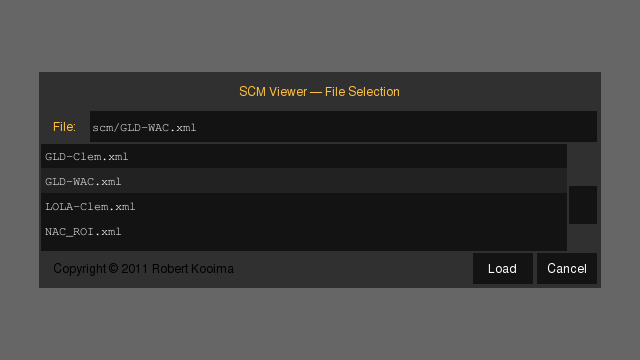
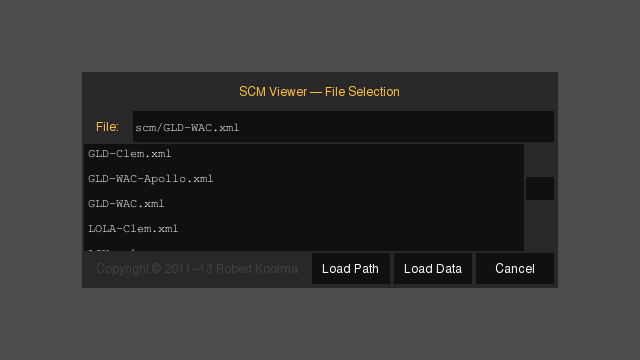
Added cursor visibility option. Fixed orbiter report not including joystick status. Updated documentation.
git-svn-id: https://s.snth.net/svn/rlk/thumb@3784 dcf3a027-e0e4-0310-89c9-ab9954db6d00

diff --git a/doc/README.html b/doc/README.html
@@ -53,7 +53,6 @@
         <ul>
           <li><a href="#viewing">Viewing Controls</a></li>
           <li><a href="#metadata">Metadata Controls</a></li>
-          <li><a href="#editing">Camera Path Editing</a></li>
           <li><a href="#recording">Camera Path Recording</a></li>
         </ul>
         <li><a href="#appconf">Application Configuration</a></li>
@@ -92,7 +91,7 @@
 
     <p>Note, this is <em>not</em> a list of available data files. A planetary visualization is usually a composition of several distinct data sets in <a href="#scm">SCM TIFF</a> format, and the <code>Orbiter</code> file selection dialog lists the XML files that define these visualizations. The XML files are found in the <tt>data/scm</tt> directory and are <a href="#definition">described below</a>.</p>
 
-    <p>Loading a visualization closes the selection dialog and displays the planet. Here, we've selected <tt>GLD-WAC.xml</tt> and zoomed in a bit, as described next.</p>
+    <p>Loading a visualization closes the selection dialog and displays the planet. Here, we've selected <tt>GLD-WAC.xml</tt>, clicked &ldquo;Load Data&rdquo; and zoomed in a bit, as described next.</p>
 
     <img src="img/view.png">
 
@@ -130,7 +129,7 @@
 
     <p>Not all visualizations support dynamic lighting, so the effects of shift-right-click might not always be apparent.</p>
 
-    <p>The <a href="#definition">XML definition</a> file allows the specification of several <a href="#editing">path</a> steps, each of which may be linked to a different visualization. The number keys allow these steps to be directly selected.</p>
+    <p>The <a href="#definition">XML definition</a> file allows the specification of several camera steps, each of which may be linked to a different visualization. The number keys allow these steps to be directly selected.</p>
 
     <table style="margin:auto;width:80%">
       <tr>
@@ -143,11 +142,13 @@
         <td>&hellip;</td>
         <td>Move the camera the selected step and scene. Effectively a <a href="#goto">go-to</a>.</td>
       </tr>
+      <!--
       <tr>
         <td>Shift-0 <i>through</i> Shift-9</td>
         <td>&hellip;</td>
         <td>Fade the view to the selected scene without moving the camera.</td>
       </tr>
+      -->
     </table>
 
     <a name="metadata"><h4>Metadata Controls</h4></a>
@@ -173,7 +174,7 @@
       <tr>
         <td>F3</td>
         <td>&hellip;</td>
-        <td>Toggle the <a href="#editing">camera path</a> display.</td>
+        <td>Toggle the camera path display.</td>
       </tr>
       <tr>
         <td>F4</td>
@@ -222,150 +223,26 @@
       </tr>
     </table>
 
-    <a name="editing"><h4>Camera Path Editing</h4></a>
+    <a name="recording"><h4>Camera Path</h4></a>
 
-    <p><code>Orbiter</code> allows the position and orientation of the camera to follow a pre-determined path, determined by a series of key frames. These key frames are specified interactively and keyboard commands insert or append the current camera configuration to a storable list of camera configurations. These key frames are animated using Hermite interpolation. The camera path visualization is toggled using the F3 key. Here is an example:</p>
+    <p><code>Orbiter</code> supports the loading a playback of camera paths defined and exported using Maya. To export a camera path, bake the camera's keys and Export All. Set &ldquo;Files of Type:&rdquo; to <tt>move</tt>. This will display a &ldquo;File Type Specific Options&rdquo; list where the translation and rotation attributes of the camera should be added. If the camera is named &ldquo;camera1&rdquo; then this list should appear as follows:</p>
 
-    <img src="img/path.png">
+<blockquote><pre>
+camera1.tx
+camera1.ty
+camera1.tz
+camera1.rx
+camera1.ry
+camera1.rz
+</pre></blockquote>
 
-    <p>The orange squares denote key frames and the green line shows their interpolation. The green key square is the first and the red key square is the last. The yellow key square indicates the current key frame selected for editing. The small green dots indicate the speed of the path, with each dot representing one quarter of a second.</p>
+    <p>Once set, this list will be retained for future exports.</p>
 
-    <table style="margin:auto;width:80%">
-      <tr>
-        <th style="width:20%">Key</th>
-        <th style="width:5%"></th>
-        <th style="width:75%">Function</th>
-      </tr>
-      <tr>
-        <td>Control-<u>A</u></td>
-        <td>&hellip;</td>
-        <td><u>A</u>dd the current camera position into the path <em>after</em> the current key.</td>
-      </tr>
-      <tr>
-        <td>Control-<u>I</u></td>
-        <td>&hellip;</td>
-        <td><u>I</u>nsert the current camera position into the path <em>before</em> the current key.</td>
-      </tr>
-      <tr>
-        <td>Control-<u>O</u></td>
-        <td>&hellip;</td>
-        <td><u>O</u>verwrite the current camera position onto the current key.</td>
-      </tr>
-      <tr>
-        <td>Control-<u>D</u></td>
-        <td>&hellip;</td>
-        <td><u>D</u>elete the current key from the path.</td>
-      </tr>
-      <tr>
-        <td>&nbsp;</td>
-      </tr>
-      <tr>
-        <td>Control-<u>N</u></td>
-        <td>&hellip;</td>
-        <td>Select the <u>N</u>ext path key.</td>
-      </tr>
-      <tr>
-        <td>Control-<u>P</u></td>
-        <td>&hellip;</td>
-        <td>Select the <u>P</u>revious path key.</td>
-      </tr>
-      <tr>
-        <td>Control-<u>B</u></td>
-        <td>&hellip;</td>
-        <td>Rewind the current key and the play-back position to the <u>B</u>eginning.</td>
-      </tr>
-      <tr>
-        <td>Control-<u>E</u></td>
-        <td>&hellip;</td>
-        <td>Forward the current key and the play-back position to the <u>E</u>nd.</td>
-      </tr>
-      <tr>
-        <td>Control-<u>J</u></td>
-        <td>&hellip;</td>
-        <td><u>J</u>ump the camera to the current key position.</td>
-      </tr>
-      <tr>
-        <td>&nbsp;</td>
-      </tr>
-      <tr>
-        <td>Spacebar</td>
-        <td>&hellip;</td>
-        <td>Toggle play-back.</td>
-      </tr>
-      <tr>
-        <td>&nbsp;</td>
-      </tr>
-      <tr>
-        <td>Control-<u>S</u></td>
-        <td>&hellip;</td>
-        <td><u>S</u>ave the path to a file.</td>
-      </tr>
-      <tr>
-        <td>Control-<u>L</u></td>
-        <td>&hellip;</td>
-        <td><u>L</u>oad the path from a file.</td>
-      </tr>
-      <tr>
-        <td>Control-<u>C</u></td>
-        <td>&hellip;</td>
-        <td><u>C</u>lear the path, removing all keys.</td>
-      </tr>
-      <tr>
-        <td>&nbsp;</td>
-      </tr>
-      <tr>
-        <td>Up</td>
-        <td>&hellip;</td>
-        <td>Increase the camera speed at the current key.</td>
-      </tr>
-      <tr>
-        <td>Down</td>
-        <td>&hellip;</td>
-        <td>Decrease the camera speed at the current key.</td>
-      </tr>
-      <tr>
-        <td>Control Up</td>
-        <td>&hellip;</td>
-        <td>Increase the tension of the camera path following the current key.</td>
-      </tr>
-      <tr>
-        <td>Control Down</td>
-        <td>&hellip;</td>
-        <td>Decrease the tension of the camera path following the current key.</td>
-      </tr>
-      <tr>
-        <td>Shift Up</td>
-        <td>&hellip;</td>
-        <td>Shift the bias of the camera path toward the next key.</td>
-      </tr>
-      <tr>
-        <td>Shift Down</td>
-        <td>&hellip;</td>
-        <td>Shift the bias of the camera path toward the current key.</td>
-      </tr>
-    </table>
+    <p>This path may be loaded using the selection dialog, toggled with F1. Locate and select the desired <tt>move</tt> file and click &ldquo;Load Path&rdquo;</p>
 
-    <p>Some tips:</p>
+    <img src="img/select.png">
 
-    <ul>
-      <li><p>To prepare a camera path, navigate normally and press Control-A at each point of interest. This will append each point to the list, moving the current selection forward with each addition.</p></li>
-
-      <li><p>Press Control-B to rewind to the beginning and press Spacebar to animate the path.</p></li>
-
-      <li><p>Gain some altitude or distance to see an overview of the path.</p></li>
-
-      <li><p>If a particular key frame is bad or wrong, select it using Control-P and Control-N, press Control-J to jump to that view point, and adjust the camera interactively. When the view point is improved, press Control-O to overwrite the current position onto the bad key frame.</p></li>
-
-      <li><p>This gets easier with practice. Always try to be aware of which key is current. The path visualizion is updated as it is edited, so keep an eye on subtle changes down the line caused by local modifications. It often helps to work backwards.</p></li>
-
-      <li><p>Cubic interpolation can give unexpected results, particularly before and after wide gaps between keys. Path tension adjustments can help, but do plan ahead.</p></li>
-
-      <li><p>Press Control-S to save the current path to disk, or Control-L to load it from disk. <b>Note:</b> There is currently no file name selection dialog for path storage. The file is <em>always</em> named <tt>path.xml</tt>. It is found in the <code>Thumb</code> user filesystem, usually in <tt>~/.thumb/</tt>, but failing that in the current working directory. If you wish to store multiple path files, please use the Finder or Explorer to rename <tt>path.xml</tt> by hand after saving, or before loading.</p></li>
-    </ul>
-
-    <a name="recording"><h4>Camera Path Recording</h4></a>
-
-    <p>Once a suitable path has been defined, it may be rendered to an image sequence.</p>
+    <p>Once loaded, the path's visibility may be toggled with F3.</p>
 
     <table style="margin:auto;width:80%">
       <tr>
@@ -374,9 +251,14 @@
         <th style="width:70%">Function</th>
       </tr>
       <tr>
+        <td>Spacebar</td>
+        <td>&hellip;</td>
+        <td>Preview the currently-loaded path.</td>
+      </tr>
+      <tr>
         <td>Shift-Spacebar</td>
         <td>&hellip;</td>
-        <td>Record the path from the current play-back position.</td>
+        <td>Record the currently-loaded path to an image sequence.</td>
       </tr>
     </table>
 
@@ -492,7 +374,7 @@
 
       <li><p>The <tt>image</tt> elements name the actual SCM data files. In this example, <tt>DTM-254-7.tif</tt> gives a Digital Terrain Model, which acts as a height map, displacing the geometry of the spherical mesh. Its minimum and maximum normalization attributes determine the radius of that sphere. <tt>WAC-254-7.tif</tt> is a simple image file fed to the fragment shader, with normalization attributes set to brighten it by a factor of 3. Each image has a name that identifies it the rendering shader and determines the type of input that it provides to the visualization.</p></li>
 
-      <li><p>The <tt>step</tt> elements define the view parameters for regions of interest for use by the <a href="#goto">go-to mechanism</a>. These are the exact same data structure as found in the <tt>path.xml</tt> file used by the <a href="#editing">camera path</a> storage mechanism, and in fact the list of <tt>step</tt> elements defines the default path when an XML file is initially loaded. Each step may select a different scene by name from the list of <tt>scene</tt> elements.</p></li>
+      <li><p>The <tt>step</tt> elements define the view parameters for regions of interest for use by the <a href="#goto">go-to mechanism</a>. Each step may select a different scene by name from the list of <tt>scene</tt> elements.</p></li>
     </ul>
 
     <p>Here's another example, <tt>NAC_ROI.xml</tt>, that includes two high-resolution overlays configured as separate <tt>scene</tt> elements. The <tt>step</tt> elements give scene names, which cause the visualization to be automatically transitioned when a <a href="#goto">go-to</a> is activated</p>
@@ -547,7 +429,7 @@
 
     <blockquote><pre>echo -n "Copernic" | nc -u -w0 127.0.0.1 2829</pre></blockquote>
 
-    <p>Upon message receipt, the renderer interpolates the viewpoint to the selected position using the same internal mechanism as the <a href="#editing">camera path definition</a>. Note, therefore, that the receipt of a go-to message will replace any currently-loaded camera path definition. Likewise, after a go-to has executed, its path remains and may be reviewed, modified, and stored using the camera path editing interface.</p>
+    <p>Upon message receipt, the renderer interpolates the viewpoint to the selected position using the same internal mechanism as the camera path definition. Note, therefore, that the receipt of a go-to message will replace any currently-loaded camera path definition. Likewise, after a go-to has executed, its path remains and may be reviewed, modified, and stored using the camera path editing interface.</p>
 
     <p>This commonality may be exploited, and points of interest may be defined simply by copy-pasting <tt>step</tt> elements from <tt>path.xml</tt> into the planet definition XML. The <tt>q</tt> attributes give the view orientation in the form of a quaternion, the <tt>p</tt> attributes give the view position as a normalized direction vector, and the <tt>r</tt> attribute gives the view radius, or distance from the center of the sphere. A path file <tt>step</tt> element also includes light source direction and path tension and bias, which do retain their meaning when used by the go-to mechanism. This can be desirable or not, and in most cases these extra attributes should simply be omitted when pasted.</p>
 

diff --git a/orbiter.cpp b/orbiter.cpp
@@ -125,11 +125,13 @@ void orbiter::report()
 
         double lon = atan2(p[0], p[2]) * 180.0 / M_PI;
         double lat =  asin(p[1])       * 180.0 / M_PI;
+        double fly = (fly_up ? 1.0 : 0.0) - (fly_dn ? 1.0 : 0.0);
 
         // Encode these to an ASCII string.
 
         char buf[128];
-        sprintf(buf, "%+12.8f %+13.8f %17.8f\n", lat, lon, alt);
+        sprintf(buf, "%+12.8f %+13.8f %17.8f %+5.3f %+5.3f %+5.3f\n",
+            lat, lon, alt, stick[0], stick[1], fly);
 
         // And send the string to the configured host.
 

diff --git a/view-app.cpp b/view-app.cpp
@@ -337,6 +337,11 @@ double view_app::get_minimum_ground() const
 
 ogl::range view_app::prep(int frusc, const app::frustum *const *frusv)
 {
+    if (draw_gui)
+        glClearColor(0.3, 0.3, 0.3, 0.0);
+    else
+        glClearColor(0.0, 0.0, 0.0, 0.0);
+
     sys->update_cache();
 
     return ogl::range(0.1, 2.0 * get_minimum_ground());
